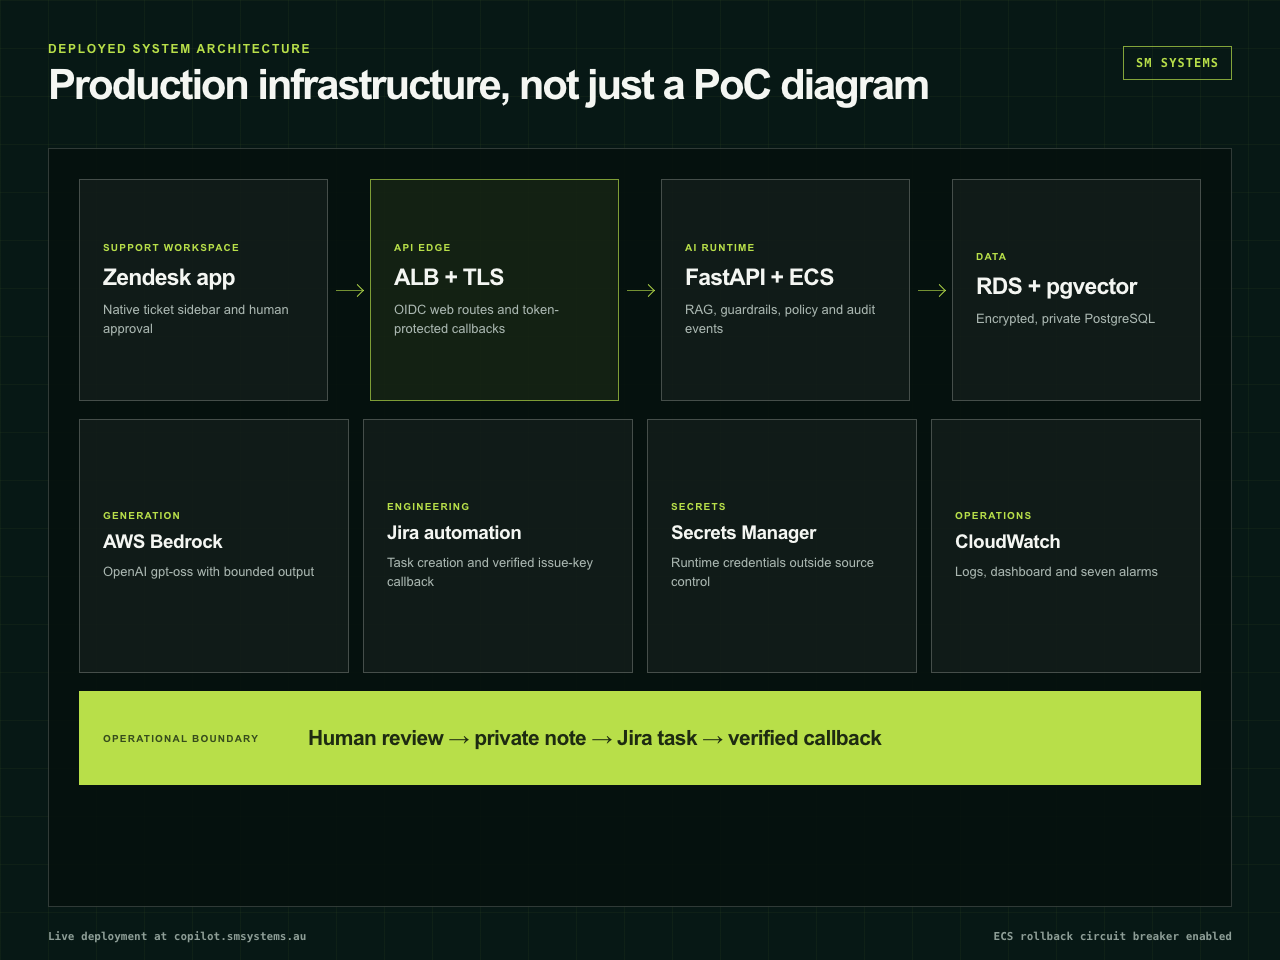
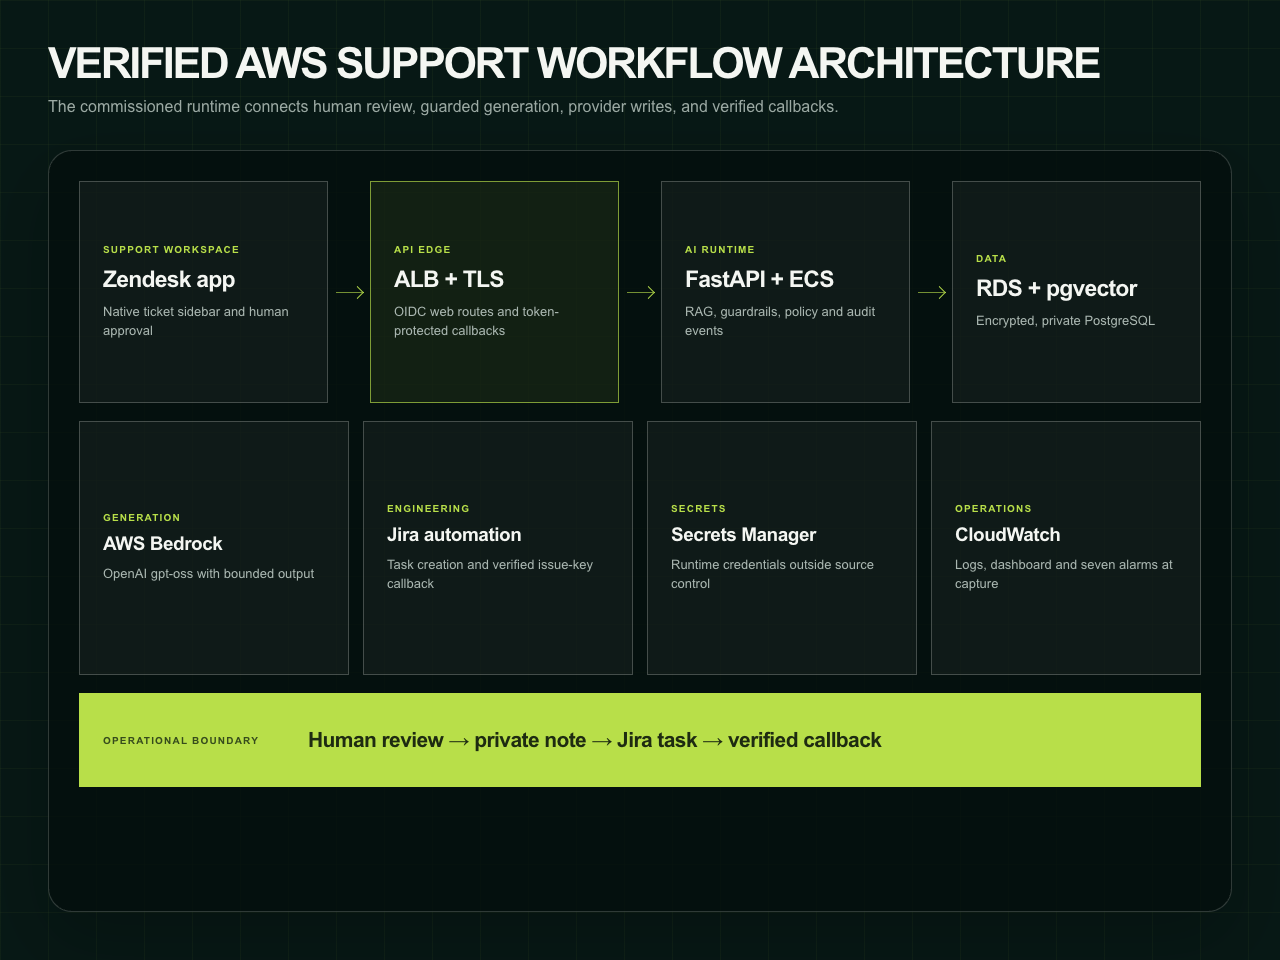
Refresh AI support copilot case study (#1)
Replace the original portfolio presentation with the approved five-frame proof set, publish the engineering case study, and link the existing repository to the canonical SM Systems page.

diff --git a/README.md b/README.md
@@ -1,93 +1,141 @@
-# Zendesk AI Support Copilot
+# Zendesk AI Support Copilot + Jira on AWS
 
-A human-reviewed support system that retrieves approved knowledge, produces cited private suggestions, applies routing and safety policy, and hands approved engineering escalations from Zendesk to Jira.
+A human-reviewed support system that retrieves approved knowledge, produces
+cited private suggestions, applies routing and safety policy, and sends an
+approved engineering escalation from Zendesk to Jira with a verified callback.
+
+![Human-reviewed Zendesk AI routing with a verified Jira handoff](assets/human-reviewed-support-console.png)
 
 | | |
 | --- | --- |
-| Status | Deployed privately on AWS |
+| Status | Controlled AWS commissioning completed; runtime decommissioned after closeout |
 | Role | Product discovery, backend, retrieval, evaluation, frontend, provider integration and cloud delivery |
 | Stack | Python, FastAPI, React, TypeScript, PostgreSQL, pgvector, AWS Bedrock, Zendesk, Jira, Terraform |
+| Portfolio | [SM Systems case study](https://smsystems.au/work/zendesk-ai-support-copilot/) |
 
-## Support workflow
+## Operating path
 
 ```text
 Zendesk ticket
-      │
-      ▼
+      |
+      v
 approved knowledge retrieval
-      │
-      ▼
+      |
+      v
 draft, escalate or block
-      │
-      ├── citations and confidence
-      ├── PII and payment-data checks
-      ├── injection and unsupported-claim checks
-      └── review_required = true
-                    │
-                    ▼
+      |
+      +-- citations and confidence
+      +-- PII and payment-data checks
+      +-- injection and unsupported-claim checks
+      +-- review_required = true
+                    |
+                    v
              human decision
-                    │
+                    |
            approved escalation only
-                    ▼
+                    v
           Zendesk private note and tag
-                    │
-                    ▼
-               Jira issue
+                    |
+                    v
+               Jira task
+                    |
+                    v
+            verified callback
 ```
 
-The system has no public-reply route. Suggestions remain private, every decision requires review, and the engineering handoff is restricted to an explicit Zendesk ticket allowlist.
+The system has no public-reply route. Suggestions remain private, every
+decision requires review, and the engineering handoff is restricted to an
+explicit Zendesk ticket allowlist.
 
-![Human-reviewed support console](assets/human-reviewed-support-console.png)
+## What makes the workflow safe to operate
 
-## Application architecture
+### Human authority is structural
 
-The FastAPI service owns ticket ingestion, retrieval, policy, suggestions, audit records, evaluation and handoff state. PostgreSQL and pgvector provide durable application and retrieval storage. Two React/TypeScript interfaces consume the same API:
+The native Zendesk sidebar can display a cited suggestion or prepare an
+engineering escalation. It cannot send a customer-facing reply. The only
+provider write requires an exact ticket allowlist and a recorded human
+approval.
 
-- an authenticated operator console for review and evaluation;
-- a private Zendesk sidebar app for ticket-scoped analysis and approved escalation.
+### Retrieval and generation stay inspectable
 
-The production deployment uses a Cognito-authenticated Application Load Balancer, ECS Fargate services, private RDS, Secrets Manager, CloudWatch and immutable container images.
+Approved-source retrieval, citations, model output, policy decisions and safety
+signals are recorded separately. An operator can see why a case was drafted,
+escalated or blocked before any provider action.
 
-![AWS application architecture](assets/aws-architecture.png)
+### The Jira handoff closes the loop
 
-## Retrieval and safety
+Zendesk invokes Jira Automation only after approval. Jira creates one task and
+returns its key through a protected callback. An atomic outbound claim and
+conditional state transitions prevent replay from creating a second task or a
+slow dispatch from overwriting a faster callback.
 
-Eight approved knowledge articles support the fixed evaluation set. The retriever combines lexical and semantic scoring, returns document-level citations and keeps generated text bounded.
+![Approved Zendesk context mapped to one Jira task](assets/jira-engineering-handoff.png)
 
-Policy checks cover:
+## Fixed release gate
 
-- prompt injection and instruction override attempts;
-- payment card, credential, token and government-ID content;
-- incident routing and unsupported restoration times;
-- financial review thresholds;
-- unsupported requests and low-confidence retrieval;
-- citation presence and draft grounding.
+[`data/support-cases.json`](data/support-cases.json) contains 40 synthetic cases
+across `draft`, `escalate` and `block` routes. The authenticated AWS evaluation
+at commissioning recorded:
 
-The deterministic provider supports repeatable local tests. AWS Bedrock can be selected through configuration for the deployed model path.
+- 28 draft, 9 escalate and 3 block cases;
+- 100% route accuracy on the fixed cases;
+- 100% citation recall and risk recall;
+- 0% unsafe drafts and 0% sensitive-data leaks;
+- 596 ms p95 hosted latency;
+- human review required on every case.
 
-## Evaluation
+These are fixed controlled results, not customer traffic or general model
+performance.
 
-[`data/support-cases.json`](data/support-cases.json) contains 40 synthetic cases across `draft`, `escalate` and `block` routes.
+![Forty fixed cases checked before provider handoff](assets/evaluation-release-gate.png)
 
-The release gate requires:
+## Failure and repair
 
-- 100% route accuracy;
-- at least 80% citation recall;
-- 100% risk recall;
-- no draft on blocked or escalated cases;
-- citations for every generated draft;
-- human review on every case;
-- no sensitive-data leakage in generated text.
+The first controlled escalation exposed two integration defects. The Jira rule
+expected an existing issue in the incoming webhook body, while the Zendesk
+trigger tag arrived before an exact tag readback was available. The workflow
+failed closed.
 
-![Evaluation release gate](assets/evaluation-release-gate.png)
+The Jira trigger was corrected to accept business data without an existing work
+item. The Zendesk adapter gained a bounded fallback requiring the approved tag,
+a new private comment and a changed provider timestamp. A tag-only retrigger
+completed the loop without adding a duplicate note or Jira task.
 
-## Engineering handoff
+## Deployment architecture
 
-An escalation can move to Jira only after a human approves it in the Zendesk sidebar. The service atomically claims the handoff before the provider write, records the verified Zendesk response and accepts a protected Jira callback.
+The commissioned AWS path used a Cognito-authenticated Application Load
+Balancer, ECS Fargate services, private encrypted RDS with pgvector, Secrets
+Manager, CloudWatch and immutable container images. The native Zendesk app,
+Bedrock generation and Jira callback remained inside explicit human-review and
+provider-write boundaries.
 
-Repeated approvals reuse the existing handoff. A fast Jira callback cannot be overwritten by a slower dispatch transition.
+![Verified AWS deployment architecture](assets/aws-architecture.png)
 
-![Zendesk to Jira engineering handoff](assets/jira-engineering-handoff.png)
+## Provider delivery state
+
+The controlled run produced one approved private Zendesk note, one Jira task
+and one verified callback. The duplicate query returned exactly one matching
+task. The Zendesk ticket contained two private comments and zero public
+comments.
+
+![Webhook, Jira task, callback and replay controls](assets/provider-delivery-state.png)
+
+## Verification at closeout
+
+- 64 backend tests;
+- 3 operator interaction tests;
+- 2 native Zendesk app tests;
+- 2 healthy ECS services at capture;
+- 7 CloudWatch alarms in OK state at capture;
+- zero critical or high container findings at capture;
+- independent final review with zero actionable findings after accepted fixes.
+
+## Current deployment state
+
+The controlled AWS runtime was decommissioned on 2026-08-02 after
+commissioning. The public hostname is inactive. Historical logs, the Cognito
+user pool and an encrypted manual recovery snapshot were retained. This
+repository does not imply a currently available hosted service.
 
 ## Run locally
 
@@ -103,7 +151,7 @@ make zendesk-app
 make evaluate
 ```
 
-Run the API with the deterministic provider:
+Run the deterministic local API:
 
 ```bash
 uv run uvicorn copilot.api.main:app --reload
@@ -115,19 +163,22 @@ Run the operator console in another terminal:
 npm --prefix frontend run dev
 ```
 
-Docker Compose starts PostgreSQL, the API and the web application on `http://127.0.0.1:8080`:
+Docker Compose starts PostgreSQL, the API and the web application on
+`http://127.0.0.1:8080`:
 
 ```bash
 docker compose up --build
 ```
 
-## Production boundary
+## Public boundary
 
-The committed dataset and tests are synthetic. Provider credentials, tenant identifiers, allowed production ticket IDs, private run receipts and deployment state are excluded.
+The committed dataset and tests are synthetic. Provider credentials, tenant
+identifiers, private ticket allowlists, provider receipts and cloud state are
+excluded. This is an SM Systems internal implementation, not paid-client work,
+a customer deployment, autonomous public replying, general model accuracy or a
+commercial outcome.
 
-The deployed commissioning run used controlled support data. Its evaluation and integration results do not represent customer traffic, general model accuracy, cost savings or response-time improvement.
-
-## Repository contents
+## Repository map
 
 ```text
 src/copilot/     API, domain, retrieval, policy, evaluation and integrations
@@ -137,10 +188,11 @@ tests/           backend unit and integration tests
 data/            40-case synthetic evaluation set
 migrations/      PostgreSQL and pgvector schema
 deploy/aws/      Terraform application infrastructure
-assets/          selected application and architecture screens
-docs/            architecture, security and operating notes
+assets/          public-safe application and architecture screens
+docs/            architecture, security, operating notes and case study
 ```
 
+- [In-depth case study](docs/case-study.md)
 - [Architecture](docs/architecture.md)
 - [Security model](docs/security.md)
 - [Operations](docs/operations.md)

diff --git a/docs/case-study.md b/docs/case-study.md
@@ -1,0 +1,100 @@
+# Engineering case study
+
+## Situation
+
+Support teams can only use AI safely when the generated suggestion, its sources
+and its uncertainty remain visible to the agent. Engineering escalation adds a
+second problem: the transition from Zendesk to Jira must be approved,
+deduplicated and confirmed back to the original ticket.
+
+The objective was to build that complete path as one controlled system, then
+verify it against a fixed evaluation set and one synthetic provider case.
+
+## Ownership
+
+SM Systems owned:
+
+- workflow discovery and provider mutation boundaries;
+- FastAPI domain and integration services;
+- PostgreSQL and pgvector storage;
+- retrieval, citation and guardrail behavior;
+- React operator console and native Zendesk sidebar app;
+- Zendesk and Jira integration contracts;
+- fixed-case evaluation and release thresholds;
+- AWS architecture, Terraform, authentication and observability;
+- rollback, threat model, runbook and closeout verification.
+
+## System design
+
+The service ingests an approved Zendesk ticket, retrieves from eight approved
+knowledge articles and asks AWS Bedrock for a bounded suggestion. Deterministic
+policy then chooses `draft`, `escalate` or `block`.
+
+Drafts require citations and remain private. Sensitive content, prompt
+injection, incidents, unsupported restoration times, financial thresholds and
+low-confidence retrieval can force escalation or blocking. Every route records
+`review_required=true`.
+
+An approved engineering escalation performs four controlled transitions:
+
+1. atomically claim the outbound handoff;
+2. write the approved private Zendesk state;
+3. invoke the dedicated Jira Automation webhook;
+4. accept the protected issue-key callback without overwriting a completed
+   state.
+
+## Failure found during commissioning
+
+The first full provider run did not complete the Jira path. The inbound Jira
+rule was configured around an existing issue even though the webhook was meant
+to create the first work item. At the same time, the Zendesk trigger tag could
+arrive before the CLI returned an exact tag readback.
+
+The workflow failed closed: it did not send a public reply, did not create an
+unbounded retry loop and did not create a duplicate Jira task.
+
+The repair changed the Jira rule to accept business data without a pre-existing
+issue. The Zendesk adapter gained a narrow fallback that still required the
+approved tag, a new private comment and a changed provider timestamp. A
+receipt-backed tag-only retrigger then completed the path without another note
+or task.
+
+## Commissioning result
+
+The controlled case produced:
+
+- one approved private note;
+- two private Zendesk comments and zero public comments;
+- one Jira task, `KAN-3`;
+- one protected callback with HTTP 200;
+- one matching issue in the duplicate query.
+
+The fixed 40-case evaluation recorded 28 draft, 9 escalation and 3 block cases.
+All defined route, citation, risk, grounding and review thresholds passed. The
+596 ms p95 figure and percentage results apply only to the fixed synthetic set.
+
+## Operational controls
+
+The commissioned AWS deployment used Cognito, TLS at the Application Load
+Balancer, non-root containers, read-only root filesystems, private encrypted
+RDS, Secrets Manager, CloudWatch, immutable image digests and an ECS rollback
+circuit breaker.
+
+At closeout the two ECS services were healthy, seven alarms were in OK state
+and the container scans contained no critical or high findings. The validation
+suite contained 64 backend tests, 3 operator interaction tests and 2 Zendesk app
+tests.
+
+## Current state
+
+The runtime was decommissioned on 2026-08-02 after controlled commissioning.
+The former hostname is inactive. Historical logs, the Cognito user pool and an
+encrypted manual recovery snapshot were retained.
+
+## Claim boundary
+
+This was an internal SM Systems implementation using controlled synthetic data.
+It was not paid-client delivery, a customer deployment, real customer traffic,
+autonomous public replying, general model accuracy or a measured commercial
+outcome. Private credentials, tenant identifiers and provider receipts are not
+included in this public repository.
